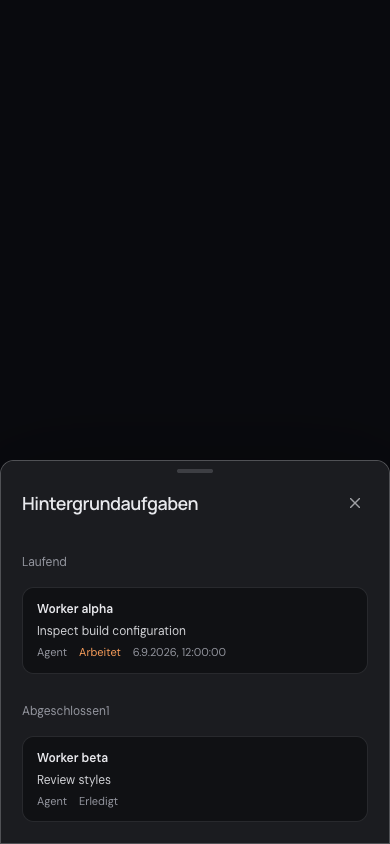
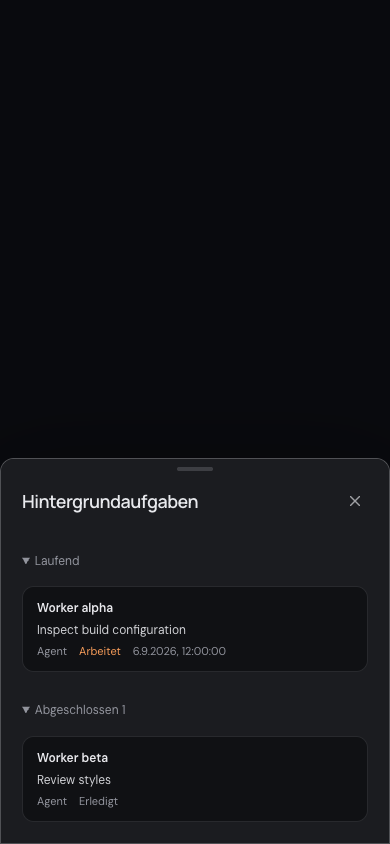
fix: keep the group marker and count spacing on phones

diff --git a/web/features/chat/background-tasks.css b/web/features/chat/background-tasks.css
@@ -32,9 +32,7 @@
     min-height: var(--touch-target);
   }
   .background-tasks-group > summary {
-    display: flex;
-    align-items: center;
-    padding-block: 0;
+    padding-block: 13px;
   }
 }
 .subagent-entry {
